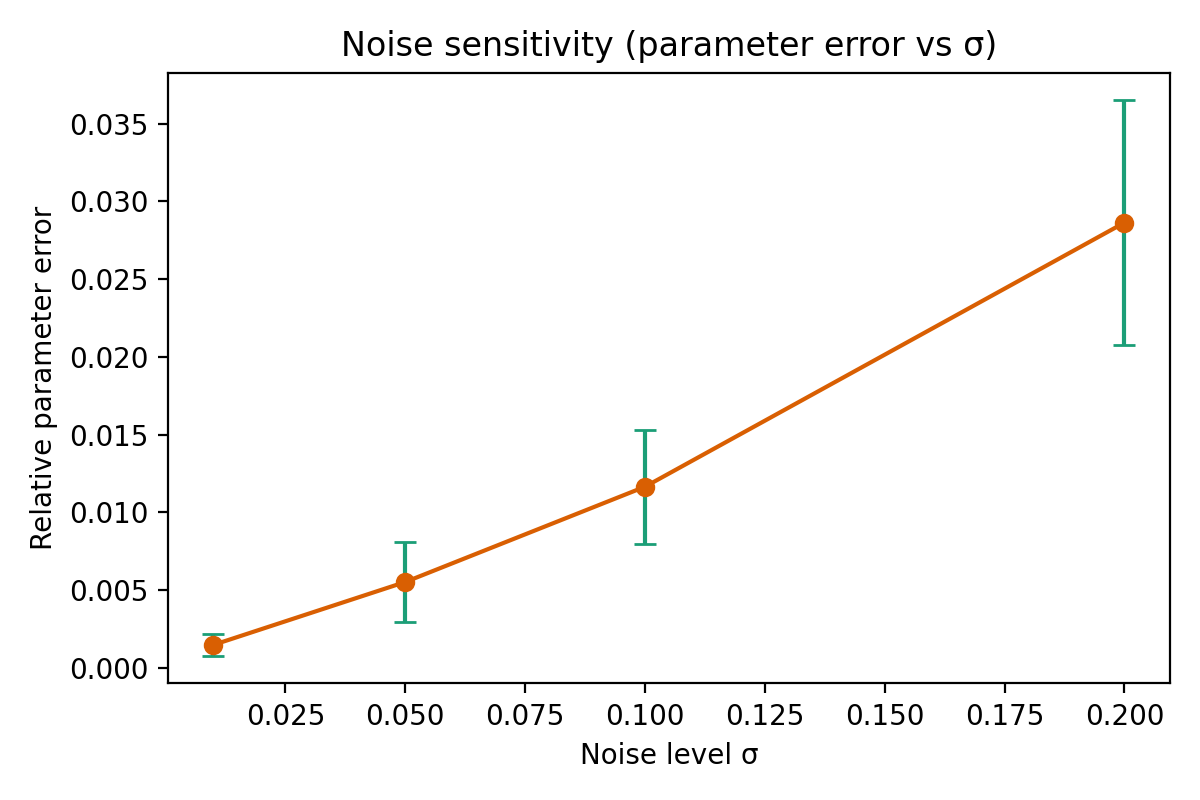
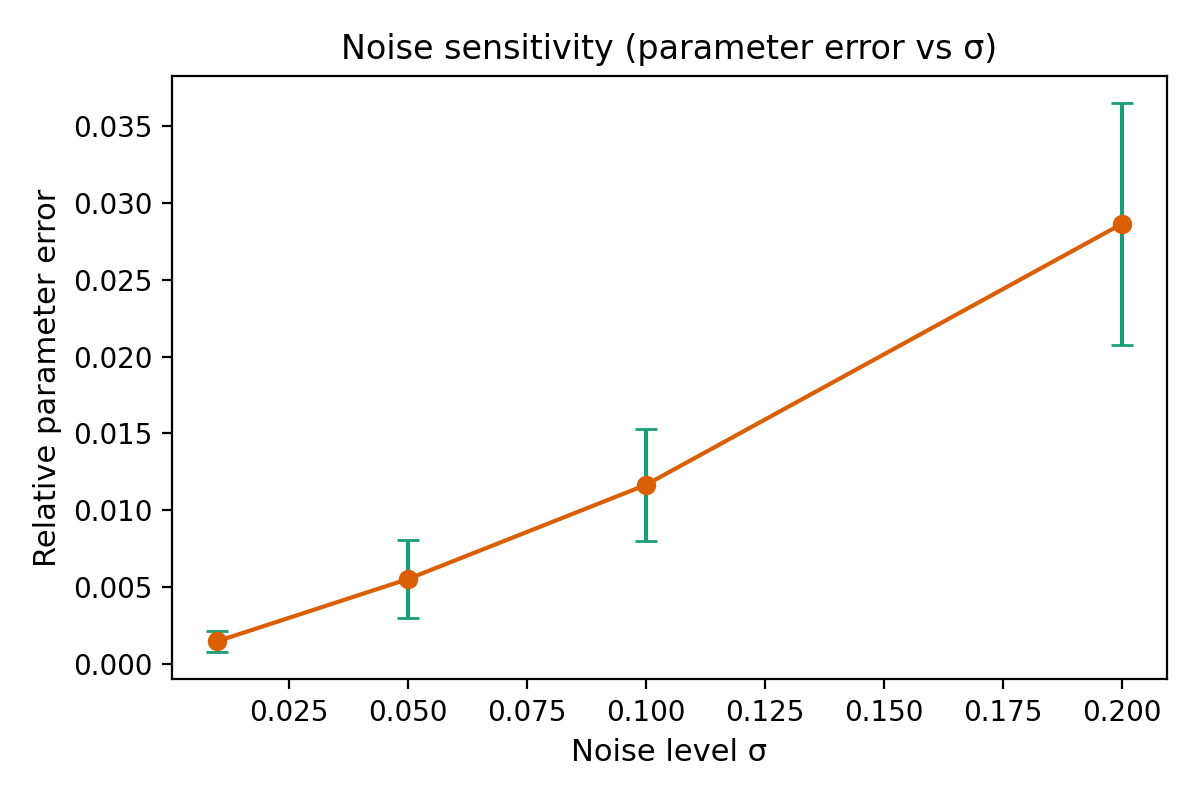
Update plots and fronts

diff --git a/scripts/experiment_initialization.py b/scripts/experiment_initialization.py
@@ -36,6 +36,17 @@ def create_bad_initializations(beta_true: np.ndarray) -> list[np.ndarray]:
 
 
 def main() -> None:
+    # Set unified font style for all plots
+    plt.rcParams.update({
+        'font.size': 11,
+        'axes.titlesize': 12,
+        'axes.labelsize': 11,
+        'xtick.labelsize': 10,
+        'ytick.labelsize': 10,
+        'legend.fontsize': 10,
+        'figure.titlesize': 12,
+    })
+    
     # Generate synthetic data with moderate noise (σ = 0.05)
     beta_true = np.array([1.3, 0.15, 2.0, 0.5, 0.1], dtype=float)
     rng = np.random.default_rng(42)
@@ -142,13 +153,12 @@ def main() -> None:
                 linewidth=3, markersize=10, alpha=1.0, zorder=2,
                 markerfacecolor="#1b9e77", markeredgecolor="white", markeredgewidth=1.5)
         plt.yscale("log")
-        plt.xlabel("Iteration", fontsize=13)
-        plt.ylabel("SSE", fontsize=13)
-        plt.title("Convergence trajectories: GN vs LM\n(Example: GN fails, LM succeeds)", 
-                 fontsize=13, fontweight="bold")
+        plt.xlabel("Iteration")
+        plt.ylabel("SSE")
+        plt.title("Convergence trajectories: GN vs LM\n(Example: GN fails, LM succeeds)")
         plt.ylim(y_min, y_max)
         plt.xlim(-0.5, max(max(gn_iters), max(lm_iters)) + 0.5)
-        plt.legend(fontsize=12, loc="best", framealpha=0.9)
+        plt.legend(loc="best", framealpha=0.9)
         plt.grid(True, alpha=0.4, which="both", linestyle="--")
         plt.tight_layout()
         plt.savefig(plots_dir / "init_trajectories.png", dpi=200, bbox_inches="tight")

diff --git a/scripts/experiment_conditioning.py b/scripts/experiment_conditioning.py
@@ -16,6 +16,17 @@ from gn_utils import GNConfig, gauss_newton, relative_error, damped_oscillation
 
 
 def main() -> None:
+    # Set unified font style for all plots
+    plt.rcParams.update({
+        'font.size': 11,
+        'axes.titlesize': 12,
+        'axes.labelsize': 11,
+        'xtick.labelsize': 10,
+        'ytick.labelsize': 10,
+        'legend.fontsize': 10,
+        'figure.titlesize': 12,
+    })
+    
     # Generate synthetic data with long time horizon (t ∈ [0, 25]) to induce ill-conditioning
     rng = np.random.default_rng(123)
     beta_true = np.array([0.8, 0.08, 1.6, 0.9, 0.05])

diff --git a/scripts/experiment_noise.py b/scripts/experiment_noise.py
@@ -15,6 +15,17 @@ from gn_utils import GNConfig, gauss_newton, relative_error, damped_oscillation
 
 
 def main() -> None:
+    # Set unified font style for all plots
+    plt.rcParams.update({
+        'font.size': 11,
+        'axes.titlesize': 12,
+        'axes.labelsize': 11,
+        'xtick.labelsize': 10,
+        'ytick.labelsize': 10,
+        'legend.fontsize': 10,
+        'figure.titlesize': 12,
+    })
+    
     # Generate clean signal as baseline
     beta_true = np.array([1.3, 0.15, 2.0, 0.5, 0.1])
     t = np.linspace(0.0, 10.0, 200)
